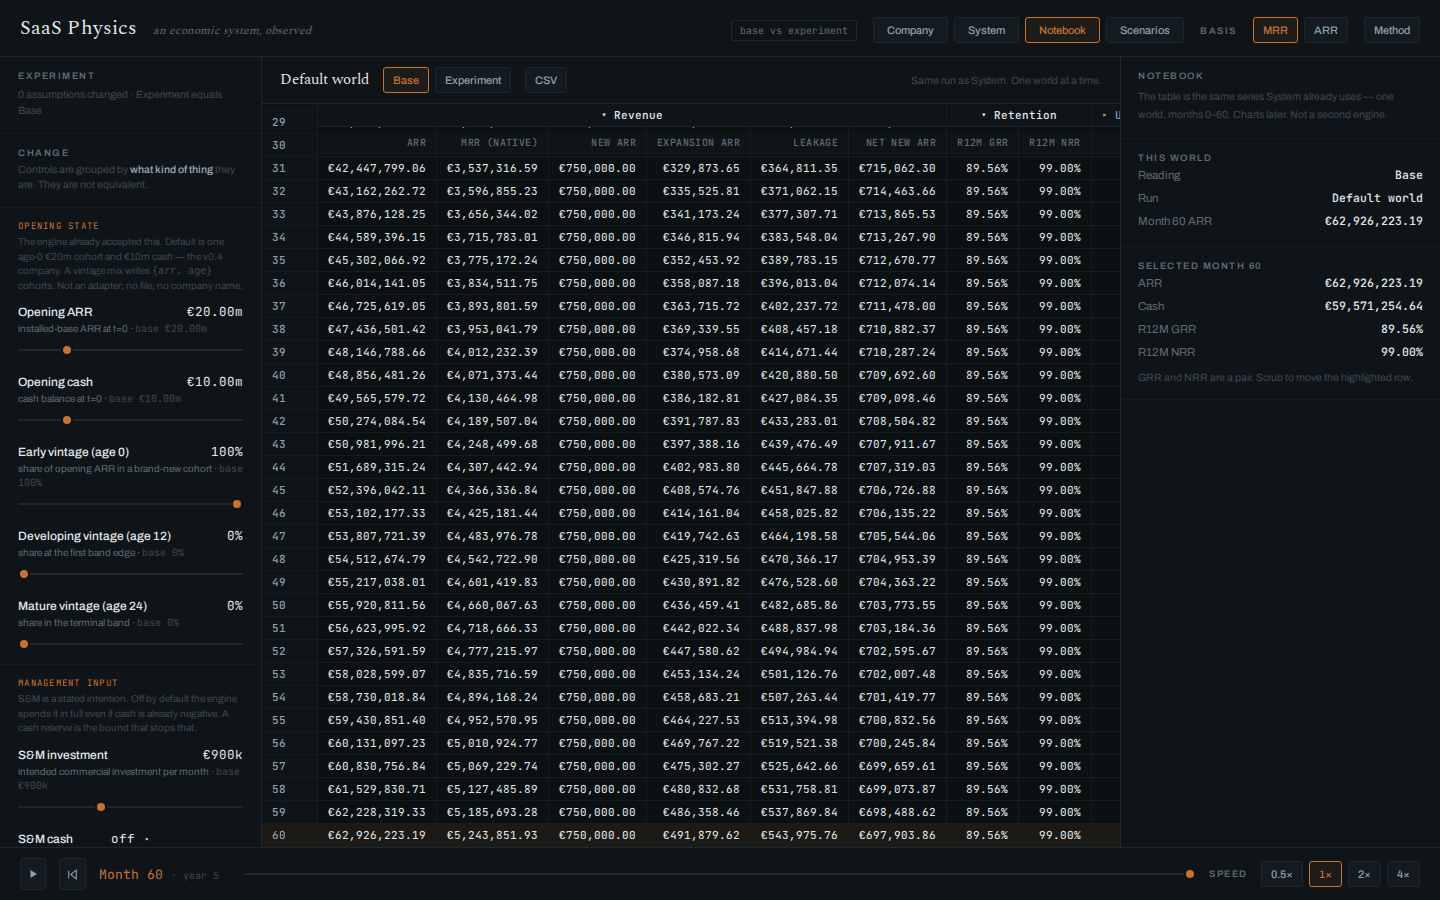
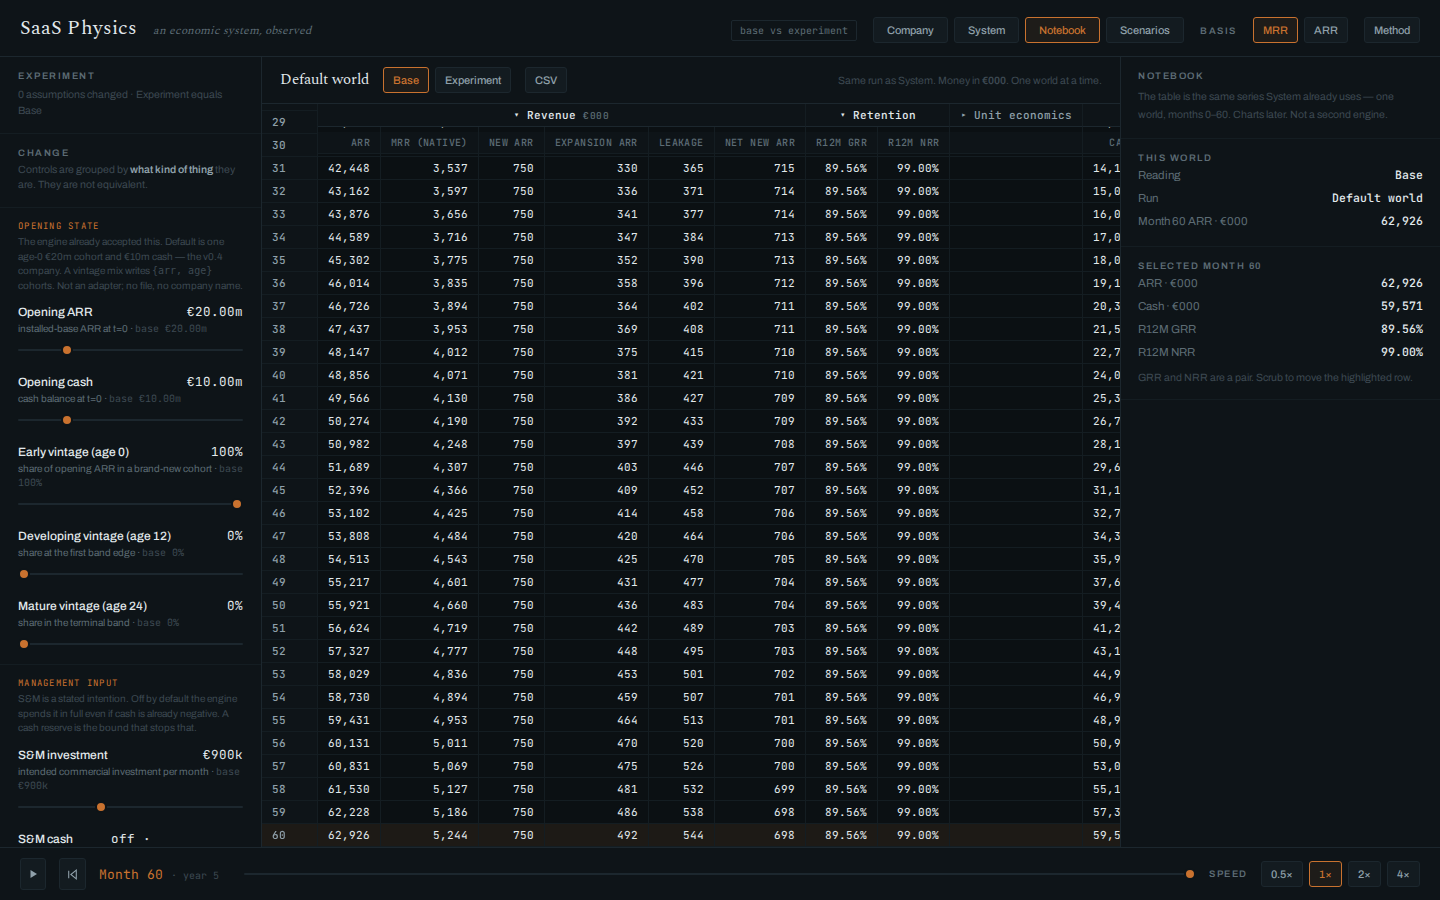
Notebook money cells display in €000.
Table figures are engine euros ÷ 1000. Rates, payback months and logo
counts stay unscaled. Underlying month-60 ARR checksum is unchanged.

diff --git a/saas-physics-v1.html b/saas-physics-v1.html
@@ -128,7 +128,7 @@ input[type=range]::-moz-range-thumb{width:12px;height:12px;border-radius:50%;bac
 #notebook[hidden]{display:none!important}
 .nb-head{display:flex;align-items:baseline;gap:14px;padding:10px 18px;border-bottom:1px solid var(--line);background:var(--panel);flex-wrap:wrap}
 .nb-head .nb-name{font-family:var(--display);font-size:15px;font-weight:400}
-.nb-head .hint{max-width:42ch}
+.nb-head .hint{max-width:56ch}
 .nb-scroll{flex-grow:1;overflow:auto;min-height:0}
 .nb-table{border-collapse:separate;border-spacing:0;font-size:11px;width:max-content;min-width:100%}
 .nb-table th,.nb-table td{padding:4px 10px;border-bottom:1px solid var(--line-soft);border-right:1px solid var(--line-soft);white-space:nowrap;text-align:right;font-family:var(--mono);font-variant-numeric:tabular-nums;font-weight:400}
@@ -145,6 +145,8 @@ input[type=range]::-moz-range-thumb{width:12px;height:12px;border-radius:50%;bac
 .nb-gbtn{background:transparent;border:0;color:var(--ink-2);cursor:pointer;font:inherit;padding:0}
 .nb-gbtn.open{color:var(--ink)}
 .nb-gbtn:hover{color:var(--exp)}
+.nb-unit{font-family:var(--mono);font-size:9.5px;letter-spacing:.08em;color:var(--ink-3);font-weight:500}
+.nb-table caption{caption-side:top;text-align:left;padding:6px 10px 8px;font-size:11px;color:var(--ink-3);font-family:var(--ui)}
 .cascade{border-top:1px solid var(--line);padding:11px 20px 12px;background:var(--sunk)}
 .cascade-head{display:flex;align-items:baseline;gap:10px;margin-bottom:9px}
 .crow{display:grid;grid-template-columns:104px minmax(0,1fr) 88px;gap:11px;align-items:center;margin-bottom:5px}
@@ -268,7 +270,7 @@ input[type=range]::-moz-range-thumb{width:12px;height:12px;border-radius:50%;bac
         </div>
         <button class="btn" id="nb-csv">CSV</button>
         <span class="spacer"></span>
-        <span class="hint">Same run as System. One world at a time.</span>
+        <span class="hint">Same run as System. Money in <b>€000</b>. One world at a time.</span>
       </div>
       <div class="nb-scroll"><table class="nb-table" id="nb-table"></table></div>
     </div>
@@ -1851,6 +1853,7 @@ input[type=range]::-moz-range-thumb{width:12px;height:12px;border-radius:50%;bac
   'use strict';
 
   var MISSING = '—';
+  var MONEY_UNIT = '€000';   /* display only — engine cells stay in full euros */
   var DEFAULT_OPEN = {
     revenue: true,
     retention: true,
@@ -1862,10 +1865,10 @@ input[type=range]::-moz-range-thumb{width:12px;height:12px;border-radius:50%;bac
   /* Groups that are always in the table. Logos is always present even when
      the logo bound is off (cells then read "—"). */
   var GROUPS = [
-    { id: 'revenue',   title: 'Revenue' },
+    { id: 'revenue',   title: 'Revenue',         unit: MONEY_UNIT },
     { id: 'retention', title: 'Retention' },
     { id: 'unit',      title: 'Unit economics' },
-    { id: 'capital',   title: 'Capital' },
+    { id: 'capital',   title: 'Capital',         unit: MONEY_UNIT },
     { id: 'logos',     title: 'Logos' }
   ];
 
@@ -2016,17 +2019,17 @@ input[type=range]::-moz-range-thumb{width:12px;height:12px;border-radius:50%;bac
     return { groups: GROUPS, groupsOpen: open, columns: cols, rows: rows, horizon: res.horizon };
   }
 
-  function thousands(n) {
+  function groupThousands(n) {
     var s = n < 0 ? '-' : '';
-    var abs = Math.abs(n);
-    var parts = abs.toFixed(2).split('.');
-    parts[0] = parts[0].replace(/\B(?=(\d{3})+(?!\d))/g, ',');
-    return s + parts.join('.');
+    var abs = String(Math.abs(n));
+    return s + abs.replace(/\B(?=(\d{3})+(?!\d))/g, ',');
   }
 
+  /* Money cells are engine euros ÷ 1000, rounded. Rates, payback months and
+     logo counts are not scaled. Missing stays "—". */
   function formatValue(kind, v) {
     if (v === null || v === undefined || (typeof v === 'number' && !isFinite(v))) return MISSING;
-    if (kind === 'eur') return '€' + thousands(v);
+    if (kind === 'eur') return groupThousands(Math.round(v / 1000));
     if (kind === 'pct') return (v * 100).toFixed(2) + '%';
     if (kind === 'x') return (v).toFixed(2) + '\u00d7';
     if (kind === 'months') return (v).toFixed(1);
@@ -2063,14 +2066,17 @@ input[type=range]::-moz-range-thumb{width:12px;height:12px;border-radius:50%;bac
     var selected = opts.selectedMonth;
     var open = model.groupsOpen;
     var i, g, cols, span, row, c, v, cls, lab;
-    var h = '<thead><tr class="nb-groups"><th class="nb-month" rowspan="2">Month</th>';
+    var h = '<caption>Money in ' + esc(MONEY_UNIT) + ' · rates and logo counts unscaled</caption>';
+    h += '<thead><tr class="nb-groups"><th class="nb-month" rowspan="2">Month</th>';
     for (i = 0; i < model.groups.length; i++) {
       g = model.groups[i];
       cols = model.columns.filter(function (col) { return col.group === g.id; });
       span = open[g.id] ? cols.length : 1;
       h += '<th class="nb-g" data-group="' + g.id + '" colspan="' + span + '">' +
         '<button type="button" class="nb-gbtn' + (open[g.id] ? ' open' : '') + '" data-group="' + g.id + '">' +
-        (open[g.id] ? '\u25be ' : '\u25b8 ') + esc(g.title) + '</button></th>';
+        (open[g.id] ? '\u25be ' : '\u25b8 ') + esc(g.title) +
+        (g.unit ? ' <span class="nb-unit">' + esc(g.unit) + '</span>' : '') +
+        '</button></th>';
     }
     h += '</tr><tr class="nb-cols">';
     for (i = 0; i < model.groups.length; i++) {
@@ -2114,6 +2120,7 @@ input[type=range]::-moz-range-thumb{width:12px;height:12px;border-radius:50%;bac
 
   return {
     MISSING: MISSING,
+    MONEY_UNIT: MONEY_UNIT,
     DEFAULT_OPEN: DEFAULT_OPEN,
     GROUPS: GROUPS,
     OMITTED: OMITTED,
@@ -3847,11 +3854,11 @@ input[type=range]::-moz-range-thumb{width:12px;height:12px;border-radius:50%;bac
       '<div class="sgrp"><div class="eyebrow">This world</div>'+
       row('Reading', notebookWorld==='experiment'?'Experiment':'Base')+
       row('Run', notebookTitle())+
-      row('Month 60 ARR', NB.formatValue('eur', NB.cellsAt(res, 60).arr))+
+      row('Month 60 ARR · €000', NB.formatValue('eur', NB.cellsAt(res, 60).arr))+
       '</div>'+
       '<div class="sgrp"><div class="eyebrow">Selected month '+t+'</div>'+
-      row('ARR', NB.formatValue('eur', cells.arr))+
-      row('Cash', NB.formatValue('eur', cells.cash))+
+      row('ARR · €000', NB.formatValue('eur', cells.arr))+
+      row('Cash · €000', NB.formatValue('eur', cells.cash))+
       row('R12M GRR', NB.formatValue('pct', cells.grr))+
       row('R12M NRR', NB.formatValue('pct', cells.nrr))+
       '<div class="hint" style="margin-top:7px">GRR and NRR are a pair. Scrub to move the highlighted row.</div></div>';

diff --git a/notebook.js b/notebook.js
@@ -12,6 +12,7 @@
   'use strict';
 
   var MISSING = '—';
+  var MONEY_UNIT = '€000';   /* display only — engine cells stay in full euros */
   var DEFAULT_OPEN = {
     revenue: true,
     retention: true,
@@ -23,10 +24,10 @@
   /* Groups that are always in the table. Logos is always present even when
      the logo bound is off (cells then read "—"). */
   var GROUPS = [
-    { id: 'revenue',   title: 'Revenue' },
+    { id: 'revenue',   title: 'Revenue',         unit: MONEY_UNIT },
     { id: 'retention', title: 'Retention' },
     { id: 'unit',      title: 'Unit economics' },
-    { id: 'capital',   title: 'Capital' },
+    { id: 'capital',   title: 'Capital',         unit: MONEY_UNIT },
     { id: 'logos',     title: 'Logos' }
   ];
 
@@ -177,17 +178,17 @@
     return { groups: GROUPS, groupsOpen: open, columns: cols, rows: rows, horizon: res.horizon };
   }
 
-  function thousands(n) {
+  function groupThousands(n) {
     var s = n < 0 ? '-' : '';
-    var abs = Math.abs(n);
-    var parts = abs.toFixed(2).split('.');
-    parts[0] = parts[0].replace(/\B(?=(\d{3})+(?!\d))/g, ',');
-    return s + parts.join('.');
+    var abs = String(Math.abs(n));
+    return s + abs.replace(/\B(?=(\d{3})+(?!\d))/g, ',');
   }
 
+  /* Money cells are engine euros ÷ 1000, rounded. Rates, payback months and
+     logo counts are not scaled. Missing stays "—". */
   function formatValue(kind, v) {
     if (v === null || v === undefined || (typeof v === 'number' && !isFinite(v))) return MISSING;
-    if (kind === 'eur') return '€' + thousands(v);
+    if (kind === 'eur') return groupThousands(Math.round(v / 1000));
     if (kind === 'pct') return (v * 100).toFixed(2) + '%';
     if (kind === 'x') return (v).toFixed(2) + '\u00d7';
     if (kind === 'months') return (v).toFixed(1);
@@ -224,14 +225,17 @@
     var selected = opts.selectedMonth;
     var open = model.groupsOpen;
     var i, g, cols, span, row, c, v, cls, lab;
-    var h = '<thead><tr class="nb-groups"><th class="nb-month" rowspan="2">Month</th>';
+    var h = '<caption>Money in ' + esc(MONEY_UNIT) + ' · rates and logo counts unscaled</caption>';
+    h += '<thead><tr class="nb-groups"><th class="nb-month" rowspan="2">Month</th>';
     for (i = 0; i < model.groups.length; i++) {
       g = model.groups[i];
       cols = model.columns.filter(function (col) { return col.group === g.id; });
       span = open[g.id] ? cols.length : 1;
       h += '<th class="nb-g" data-group="' + g.id + '" colspan="' + span + '">' +
         '<button type="button" class="nb-gbtn' + (open[g.id] ? ' open' : '') + '" data-group="' + g.id + '">' +
-        (open[g.id] ? '\u25be ' : '\u25b8 ') + esc(g.title) + '</button></th>';
+        (open[g.id] ? '\u25be ' : '\u25b8 ') + esc(g.title) +
+        (g.unit ? ' <span class="nb-unit">' + esc(g.unit) + '</span>' : '') +
+        '</button></th>';
     }
     h += '</tr><tr class="nb-cols">';
     for (i = 0; i < model.groups.length; i++) {
@@ -275,6 +279,7 @@
 
   return {
     MISSING: MISSING,
+    MONEY_UNIT: MONEY_UNIT,
     DEFAULT_OPEN: DEFAULT_OPEN,
     GROUPS: GROUPS,
     OMITTED: OMITTED,

diff --git a/v1.template.html b/v1.template.html
@@ -128,7 +128,7 @@ input[type=range]::-moz-range-thumb{width:12px;height:12px;border-radius:50%;bac
 #notebook[hidden]{display:none!important}
 .nb-head{display:flex;align-items:baseline;gap:14px;padding:10px 18px;border-bottom:1px solid var(--line);background:var(--panel);flex-wrap:wrap}
 .nb-head .nb-name{font-family:var(--display);font-size:15px;font-weight:400}
-.nb-head .hint{max-width:42ch}
+.nb-head .hint{max-width:56ch}
 .nb-scroll{flex-grow:1;overflow:auto;min-height:0}
 .nb-table{border-collapse:separate;border-spacing:0;font-size:11px;width:max-content;min-width:100%}
 .nb-table th,.nb-table td{padding:4px 10px;border-bottom:1px solid var(--line-soft);border-right:1px solid var(--line-soft);white-space:nowrap;text-align:right;font-family:var(--mono);font-variant-numeric:tabular-nums;font-weight:400}
@@ -145,6 +145,8 @@ input[type=range]::-moz-range-thumb{width:12px;height:12px;border-radius:50%;bac
 .nb-gbtn{background:transparent;border:0;color:var(--ink-2);cursor:pointer;font:inherit;padding:0}
 .nb-gbtn.open{color:var(--ink)}
 .nb-gbtn:hover{color:var(--exp)}
+.nb-unit{font-family:var(--mono);font-size:9.5px;letter-spacing:.08em;color:var(--ink-3);font-weight:500}
+.nb-table caption{caption-side:top;text-align:left;padding:6px 10px 8px;font-size:11px;color:var(--ink-3);font-family:var(--ui)}
 .cascade{border-top:1px solid var(--line);padding:11px 20px 12px;background:var(--sunk)}
 .cascade-head{display:flex;align-items:baseline;gap:10px;margin-bottom:9px}
 .crow{display:grid;grid-template-columns:104px minmax(0,1fr) 88px;gap:11px;align-items:center;margin-bottom:5px}
@@ -268,7 +270,7 @@ input[type=range]::-moz-range-thumb{width:12px;height:12px;border-radius:50%;bac
         </div>
         <button class="btn" id="nb-csv">CSV</button>
         <span class="spacer"></span>
-        <span class="hint">Same run as System. One world at a time.</span>
+        <span class="hint">Same run as System. Money in <b>€000</b>. One world at a time.</span>
       </div>
       <div class="nb-scroll"><table class="nb-table" id="nb-table"></table></div>
     </div>
@@ -2107,11 +2109,11 @@ input[type=range]::-moz-range-thumb{width:12px;height:12px;border-radius:50%;bac
       '<div class="sgrp"><div class="eyebrow">This world</div>'+
       row('Reading', notebookWorld==='experiment'?'Experiment':'Base')+
       row('Run', notebookTitle())+
-      row('Month 60 ARR', NB.formatValue('eur', NB.cellsAt(res, 60).arr))+
+      row('Month 60 ARR · €000', NB.formatValue('eur', NB.cellsAt(res, 60).arr))+
       '</div>'+
       '<div class="sgrp"><div class="eyebrow">Selected month '+t+'</div>'+
-      row('ARR', NB.formatValue('eur', cells.arr))+
-      row('Cash', NB.formatValue('eur', cells.cash))+
+      row('ARR · €000', NB.formatValue('eur', cells.arr))+
+      row('Cash · €000', NB.formatValue('eur', cells.cash))+
       row('R12M GRR', NB.formatValue('pct', cells.grr))+
       row('R12M NRR', NB.formatValue('pct', cells.nrr))+
       '<div class="hint" style="margin-top:7px">GRR and NRR are a pair. Scrub to move the highlighted row.</div></div>';

diff --git a/notebook-checks.js b/notebook-checks.js
@@ -38,16 +38,25 @@ ok('NOTEBOOK-UI', 'Method overlay names Notebook as table substrate',
 
 var base = E.run(A);
 var m60 = NB.cellsAt(base, 60);
-ok('NOTEBOOK-ARR', 'default world bounds-off: month-60 ARR = €62,926,223.19',
+ok('NOTEBOOK-ARR', 'default world bounds-off: month-60 ARR = €62,926,223.19 (engine euros)',
    Math.abs(m60.arr - 62926223.19) < 0.005,
+   String(m60.arr));
+ok('NOTEBOOK-ARR', 'Notebook displays money in €000 (month-60 ARR → 62,926)',
+   NB.MONEY_UNIT === '€000' && NB.formatValue('eur', m60.arr) === '62,926',
    NB.formatValue('eur', m60.arr));
-ok('NOTEBOOK-ARR', 'formatted month-60 ARR is the locked checksum',
-   NB.formatValue('eur', m60.arr) === '€62,926,223.19',
-   NB.formatValue('eur', m60.arr));
-ok('NOTEBOOK-ARR', 'month-0 ARR is opening stock, not a fake flow',
+ok('NOTEBOOK-ARR', '€000 label is on the table and in the v1 header',
+   /Money in €000/.test(NB.renderTable(NB.tableModel(base))) &&
+   tpl.indexOf('Money in <b>€000</b>') !== -1, '');
+ok('NOTEBOOK-ARR', 'month-0 ARR is opening stock, not a fake flow; — unchanged',
    NB.cellsAt(base, 0).arr === base.start.openingARR &&
    NB.cellsAt(base, 0).newARR === null &&
    NB.formatValue('eur', null) === '—', '');
+ok('NOTEBOOK-ARR', 'rates, payback months and logo counts are not ÷1000',
+   NB.formatValue('pct', 0.8955823296048089) === '89.56%' &&
+   NB.formatValue('nrr', null) === '—' &&
+   NB.formatValue('months', 18) === '18.0' &&
+   NB.formatValue('x', 1.2) === '1.20\u00d7' &&
+   NB.formatValue('count', 2347.2) === '2347.2', '');
 
 var cols = NB.columnsFor(base);
 var ids = cols.map(function (c) { return c.id; });

diff --git a/docs/NOTEBOOK_TABLE_SPEC.md b/docs/NOTEBOOK_TABLE_SPEC.md
@@ -12,7 +12,7 @@ New view/tab Notebook. Companion — does not replace Method/System/Scenarios 5&
 
 ## 3. Layout
 
-Thin header: scenario name + Base|Exp toggle. Rows 0–60 sticky month. Collapsible sections; default open Revenue/Retention/Capital; default collapsed Unit economics/Logos.
+Thin header: scenario name + Base|Exp toggle. Rows 0–60 sticky month. Collapsible sections; default open Revenue/Retention/Capital; default collapsed Unit economics/Logos. Money cells display as **€000** (engine euros ÷ 1000). Rates, payback months and logo counts are unscaled.
 
 ## 4. Base | Experiment
 
